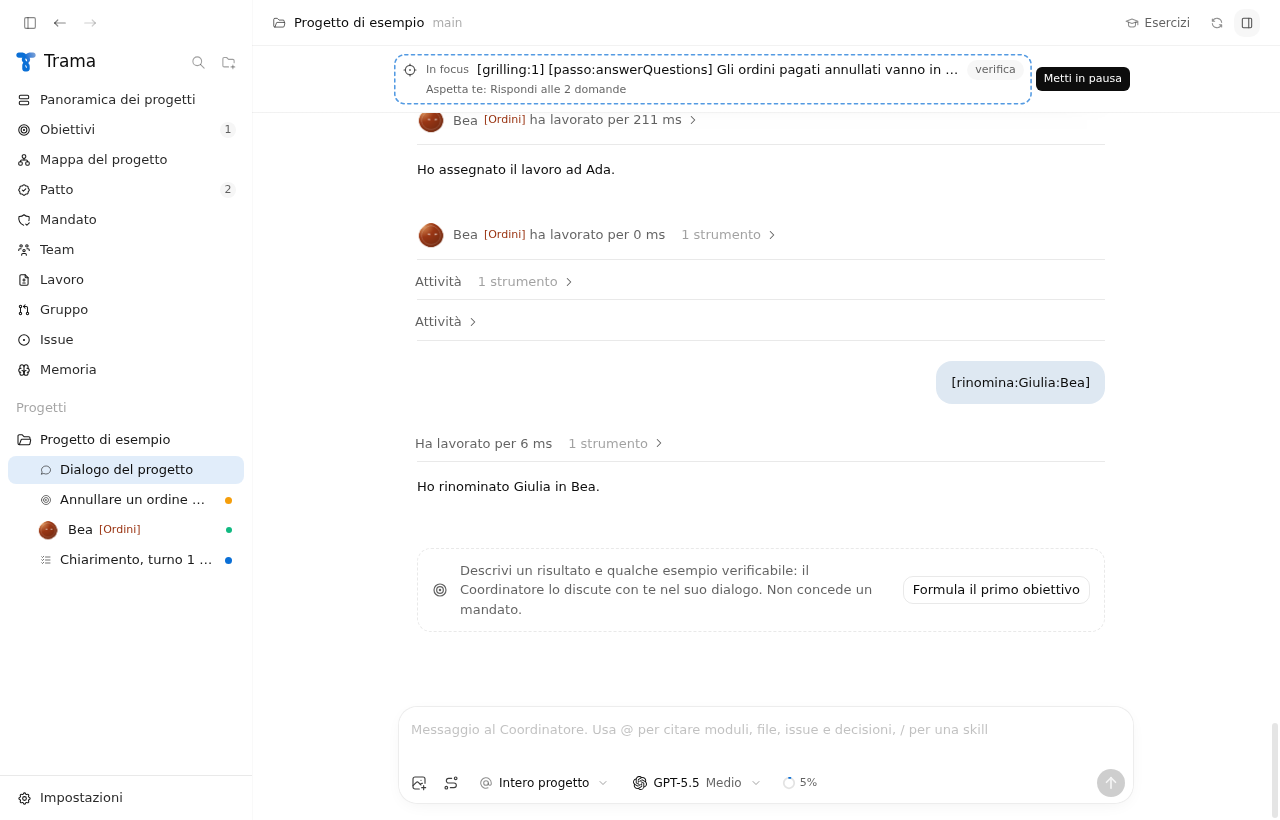
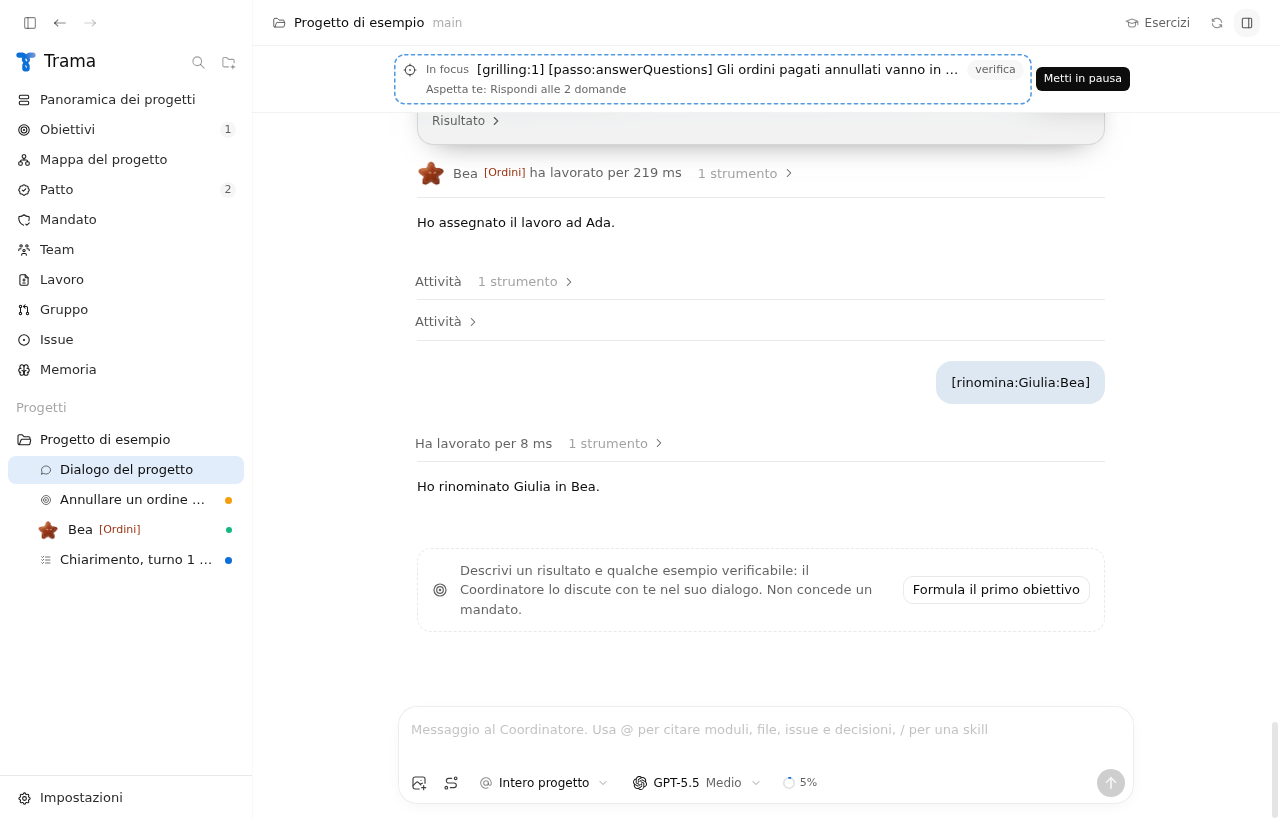
fix(app): keep still agents awake and fit the specialist header
An agent of the team that has not worked for a while now rests with its
eyes open; only an agent out of the team, or a colleague's agent whose
person is idle or away, sleeps. Asleep, the bot keeps its body, color,
weave and seam, closes its eyes, fades and breathes slowly, with three Z's
rising from its top right in stepped CSS. The specialist header puts a
48 px bot beside a wrapping row, so the name stays on one line and the
status is never cut at the inspector's minimum width. ui-check covers the
open eyes after the team, the Z's of a sleeping colleague's agent and the
header at the minimum width.

Claude-Session: https://claude.ai/code/session_01XHqMBGb9DJYWQxVtQJvu8h

diff --git a/app/src/shared/agentBot.ts b/app/src/shared/agentBot.ts
@@ -1,5 +1,5 @@
 import type { Candidate, Specialist, TeamRole } from "./domain";
-import { PRESENCE_IDLE_MS, type PresenceStatus } from "./presence";
+import type { PresenceStatus } from "./presence";
 
 /**
  * The agent's bot (W16, #187): a soft body in the agent's own color (W15), with two stitches for eyes and a thread
@@ -157,18 +157,19 @@ export const ACTIVITY_LABEL: Record<AgentActivity, string> = {
   inactive: "inattivo",
 };
 
-type ActivityAgent = Pick<Specialist, "id" | "status" | "updatedAt"> & {
-  assignments: Pick<Specialist["assignments"][number], "status" | "updatedAt" | "waitingForProvider">[];
+type ActivityAgent = Pick<Specialist, "id" | "status"> & {
+  assignments: Pick<Specialist["assignments"][number], "status" | "waitingForProvider">[];
 };
 type ActivityCandidate = Pick<Candidate, "specialistId" | "clearance" | "humanApproval" | "pullRequest">;
 
 /**
- * The state an agent's bot shows, from the team and assignment model. In order: out of the team or quiet for longer
- * than presence's idle time (G01) sleeps; work being prepared thinks; running work works; a cleared candidate that
- * waits for the person's approval notifies; a failed or stopped work, or one waiting for its provider, is blocked;
- * finished work is done.
+ * The state an agent's bot shows, from the team and assignment model. In order: out of the team sleeps; work being
+ * prepared thinks; running work works; a cleared candidate that waits for the person's approval notifies; a failed
+ * or stopped work, or one waiting for its provider, is blocked; finished work is done; otherwise it rests. An agent
+ * of the team that has not worked for a while still rests with its eyes open: only an agent out of the team, or a
+ * colleague's agent whose person is idle or away (`presenceActivity`), sleeps.
  */
-export function agentActivity(agent: ActivityAgent, context: { candidates: ActivityCandidate[]; now: Date }): AgentActivity {
+export function agentActivity(agent: ActivityAgent, context: { candidates: ActivityCandidate[] }): AgentActivity {
   if (agent.status === "removed") return "inactive";
   const current = agent.assignments.at(-1);
   if (current?.waitingForProvider) return "blocked";
@@ -178,8 +179,6 @@ export function agentActivity(agent: ActivityAgent, context: { candidates: Activ
   const waiting = context.candidates.some((c) => c.specialistId === agent.id && c.clearance && !c.humanApproval && !c.pullRequest);
   if (waiting) return "waiting";
   if (current?.status === "failed" || agent.status === "stopped") return "blocked";
-  const last = Math.max(Date.parse(agent.updatedAt) || 0, Date.parse(current?.updatedAt ?? "") || 0);
-  if (context.now.getTime() - last > PRESENCE_IDLE_MS) return "inactive";
   if (current?.status === "completed") return "done";
   return "idle";
 }

diff --git a/app/src/renderer/components/inspector/TeamView.tsx b/app/src/renderer/components/inspector/TeamView.tsx
@@ -211,16 +211,24 @@ export function SpecialistView({ id }: { id: string }) {
         <button type="button" className="inline-flex items-center gap-1 text-ui-sm text-muted-foreground hover:text-foreground" onClick={() => setInspector({ kind: "team" })}>
           <IconArrowLeft className="size-3.5" /> Team
         </button>
-        <div className="mt-2 flex items-center gap-2">
-          <AgentAvatar agent={specialist} size={64} />
-          <h3 className="text-ui-lg font-medium text-foreground">{specialist.name}</h3>
-          <AgentTag agent={specialist} className="text-ui-sm" />
-          <Badge>{specialist.id}</Badge>
-          <span className="ml-auto flex items-center gap-1.5 text-ui-sm text-muted-foreground">
-            <StatusDot status={specialist.status} /> {STATUS_LABEL[specialist.status]}
-          </span>
+        {/* The bot sits beside the header, so it takes no room from the name and the status; the row wraps before
+            anything is cut, and the status never shrinks. */}
+        <div className="mt-2 flex items-start gap-3" data-testid="specialist-header">
+          <AgentAvatar agent={specialist} size={48} />
+          <div className="min-w-0 flex-1">
+            <div className="flex flex-wrap items-center gap-x-2 gap-y-1">
+              <h3 className="min-w-0 max-w-full truncate text-ui-lg font-medium text-foreground" title={specialist.name}>
+                {specialist.name}
+              </h3>
+              <AgentTag agent={specialist} className="text-ui-sm" />
+              <Badge>{specialist.id}</Badge>
+              <span className="ml-auto flex shrink-0 items-center gap-1.5 whitespace-nowrap text-ui-sm text-muted-foreground" data-testid="specialist-status">
+                <StatusDot status={specialist.status} /> {STATUS_LABEL[specialist.status]}
+              </span>
+            </div>
+            <p className="mt-0.5 text-ui text-muted-foreground">{specialist.competence}</p>
+          </div>
         </div>
-        <p className="mt-0.5 text-ui text-muted-foreground">{specialist.competence}</p>
         <div className="cta-row mt-3">
           {specialist.status !== "removed" && !fixed ? (
             <Button

diff --git a/app/src/renderer/components/AgentIdentity.tsx b/app/src/renderer/components/AgentIdentity.tsx
@@ -1,4 +1,4 @@
-import { type CSSProperties, useMemo, useSyncExternalStore } from "react";
+import { type CSSProperties, useMemo } from "react";
 import { type AgentActivity, agentActivity, botShapeFor, teamBotShapes } from "@shared/agentBot";
 import type { Specialist } from "@shared/domain";
 import { agentTag, paletteEntry } from "@shared/identity";
@@ -20,25 +20,7 @@ export function agentStyle(agent: Pick<Specialist, "color">): CSSProperties {
   return { "--agent-light": entry.light, "--agent-dark": entry.dark } as CSSProperties;
 }
 
-/** A clock that ticks every half minute, shared by all bots, so an agent falls asleep without other changes. */
-let clockNow = Date.now();
-const clockListeners = new Set<() => void>();
-let clockTimer: ReturnType<typeof setInterval> | null = null;
-function subscribeClock(listener: () => void) {
-  clockListeners.add(listener);
-  clockTimer ??= setInterval(() => {
-    clockNow = Date.now();
-    for (const l of clockListeners) l();
-  }, 30_000);
-  return () => {
-    clockListeners.delete(listener);
-    if (!clockListeners.size && clockTimer) {
-      clearInterval(clockTimer);
-      clockTimer = null;
-    }
-  };
-}
-const useClock = () => useSyncExternalStore(subscribeClock, () => clockNow);
+
 
 const NO_SPECIALISTS: Specialist[] = [];
 
@@ -46,13 +28,12 @@ const NO_SPECIALISTS: Specialist[] = [];
 function useAgentBot(agent: Agent, activity: AgentActivity | undefined) {
   const specialists = useUi((s) => s.app?.project?.document.team.specialists ?? NO_SPECIALISTS);
   const candidates = useUi((s) => s.app?.project?.document.candidates);
-  const now = useClock();
   const shapes = useMemo(() => teamBotShapes(specialists), [specialists]);
   const shape = (agent.id && shapes.get(agent.id)) || botShapeFor(agent);
   const member = agent.id ? specialists.find((s) => s.id === agent.id) : undefined;
   const state =
     activity ??
-    (member ? agentActivity(member, { candidates: candidates ?? [], now: new Date(now) }) : "idle");
+    (member ? agentActivity(member, { candidates: candidates ?? [] }) : "idle");
   return { shape, activity: state };
 }
 

diff --git a/app/src/renderer/index.css b/app/src/renderer/index.css
@@ -486,8 +486,50 @@
   animation: bot-breathe 3.6s steps(8) var(--bot-delay, 0s) infinite alternate;
 }
 .agent-bot[data-live][data-move="sleep"] {
-  transform-origin: 50% 55%;
+  transform-origin: 50% 85%;
   animation: bot-sleep 4.5s steps(10) var(--bot-delay, 0s) infinite alternate;
+}
+/* Asleep, the bot keeps its body with closed eyes, faded, and Z's rise from its top right. */
+.agent-bot[data-move="sleep"] [data-part="root"] {
+  opacity: 0.6;
+}
+.agent-bot .bot-zzz {
+  display: none;
+}
+.agent-bot[data-move="sleep"] .bot-zzz {
+  display: inline;
+}
+.agent-bot .bot-z {
+  opacity: 0;
+  transform-box: fill-box;
+  transform-origin: center;
+}
+/* Still (off screen, or with reduced motion), one Z stays. */
+.agent-bot .bot-z-2 {
+  opacity: 1;
+}
+.agent-bot .bot-z-halo,
+.agent-bot .bot-z-mark {
+  fill: none;
+  stroke-linecap: round;
+  stroke-linejoin: round;
+}
+.agent-bot .bot-z-halo {
+  stroke: var(--background);
+  stroke-width: 18;
+}
+.agent-bot .bot-z-mark {
+  stroke: var(--agent);
+  stroke-width: 9;
+}
+.agent-bot[data-live][data-move="sleep"] .bot-z {
+  animation: bot-z 3.6s steps(18) infinite;
+}
+.agent-bot[data-live][data-move="sleep"] .bot-z-2 {
+  animation-delay: 1.2s;
+}
+.agent-bot[data-live][data-move="sleep"] .bot-z-3 {
+  animation-delay: 2.4s;
 }
 .agent-bot[data-live][data-move="exclamation"] {
   animation: bot-hop 0.75s steps(5) infinite alternate;
@@ -520,10 +562,29 @@
 }
 @keyframes bot-sleep {
   from {
-    transform: scale(0.92);
+    transform: scale(0.97, 0.99);
   }
   to {
-    transform: scale(1.08);
+    transform: scale(1.03, 1.01);
+  }
+}
+@keyframes bot-z {
+  0% {
+    opacity: 0;
+    transform: translate(-12px, 14px) rotate(-8deg);
+  }
+  20% {
+    opacity: 1;
+  }
+  45% {
+    transform: translate(-2px, 2px) rotate(8deg);
+  }
+  70% {
+    opacity: 1;
+  }
+  100% {
+    opacity: 0;
+    transform: translate(10px, -14px) rotate(-6deg);
   }
 }
 @keyframes bot-hop {

diff --git a/app/src/shared/agentBot.test.ts b/app/src/shared/agentBot.test.ts
@@ -84,7 +84,7 @@ describe("agent bot shapes (W16)", () => {
 });
 
 describe("agent bot state (W16)", () => {
-  const at = (a: ReturnType<typeof agent>, candidates: ReturnType<typeof candidate>[] = []) => agentActivity(a, { candidates, now: NOW });
+  const at = (a: ReturnType<typeof agent>, candidates: ReturnType<typeof candidate>[] = []) => agentActivity(a, { candidates });
 
   it("follows the agent's work", () => {
     expect(at(agent(null))).toBe("idle");
@@ -100,11 +100,14 @@ describe("agent bot state (W16)", () => {
     expect(at(agent({ status: "completed" }))).toBe("done");
   });
 
-  it("sleeps out of the team or after presence's idle time, unless it works or waits for the person", () => {
-    expect(at(agent(null, "removed"))).toBe("inactive");
-    expect(at(agent({ status: "completed" }, "available", old))).toBe("inactive");
+  it("keeps an agent of the team awake however long it has been still; only one out of the team sleeps", () => {
+    // Created with the team and never assigned, quiet for longer than presence's idle time: still at rest, eyes open.
+    expect(at(agent(null, "available", old))).toBe("idle");
+    expect(ACTIVITY_LOOK[at(agent(null, "available", old))].expression).toBe("neutral");
+    expect(at(agent({ status: "completed" }, "available", old))).toBe("done");
     expect(at(agent({ status: "running" }, "working", old))).toBe("working");
     expect(at(agent({ status: "completed" }, "available", old), [candidate()])).toBe("waiting");
+    expect(at(agent(null, "removed"))).toBe("inactive");
   });
 
   it("maps each state to its move and expression", () => {

diff --git a/app/src/renderer/components/AgentBot.tsx b/app/src/renderer/components/AgentBot.tsx
@@ -6,6 +6,17 @@ import { type BotNodes, registerBot } from "@/lib/botEngine";
 import { cn } from "@/lib/cn";
 import { agentStyle } from "./AgentIdentity";
 
+/** Where the sleeping Z's start, in viewBox units, and how big each is. */
+const SLEEP_Z = [
+  { x: 80, y: -72, size: 30 },
+  { x: 112, y: -112, size: 44 },
+  { x: 150, y: -156, size: 60 },
+];
+const zPath = (size: number) => {
+  const h = size / 2;
+  return `M${-h} ${-h}H${h}L${-h} ${h}H${h}`;
+};
+
 /**
  * An agent's bot (W16, ADR 0007): a soft body of woven fabric in the agent's color, with a stitched seam and two
  * stitches for eyes. The body is the agent's own (a shape per role); the move and the eyes follow its state.
@@ -123,6 +134,19 @@ export function AgentBot({
         </g>
         <circle data-part="badge" className="bot-badge" r={BADGE_RADIUS} transform={badgeTransform(still.badge)} />
       </g>
+      {/* Asleep, three Z's of growing size rise from the top right, sway and fade; CSS shows and moves them. */}
+      {detailed ? (
+        <g className="bot-zzz" data-part="zzz">
+          {SLEEP_Z.map((z, i) => (
+            <g key={i} transform={`translate(${z.x} ${z.y})`}>
+              <g className={`bot-z bot-z-${i + 1}`}>
+                <path className="bot-z-halo" d={zPath(z.size)} />
+                <path className="bot-z-mark" d={zPath(z.size)} />
+              </g>
+            </g>
+          ))}
+        </g>
+      ) : null}
     </svg>
   );
 }

diff --git a/app/src/renderer/lib/botGeometry.test.ts b/app/src/renderer/lib/botGeometry.test.ts
@@ -59,7 +59,7 @@ describe("bot geometry (W16)", () => {
     expect(renderPose(halfway).blobs[0]).toMatch(/^M.*Z$/);
   });
 
-  it("turns the body into knots, marks and a spool, and hides the eyes there", () => {
+  it("turns the body into knots and marks, and hides the eyes there; asleep it keeps its body with closed eyes", () => {
     const body = botPose(input());
     expect(body.body).toBe(1);
     expect(body.blobs[1]).toEqual(body.blobs[0]);
@@ -68,9 +68,11 @@ describe("bot geometry (W16)", () => {
     expect([centre(1), centre(0), centre(2)]).toEqual([expect.closeTo(-0.6, 1), expect.closeTo(0, 1), expect.closeTo(0.6, 1)]);
     expect(thinking.dim).toBe(1);
     expect(thinking.body).toBe(0);
-    for (const animation of ["alert", "exclamation", "sleep"] as const) expect(botPose(input({ animation })).body).toBe(0);
-    const spool = botPose(input({ animation: "sleep" }));
-    expect(Math.max(...spool.blobs[0].map((p) => p.x))).toBeLessThan(0.3);
+    for (const animation of ["alert", "exclamation"] as const) expect(botPose(input({ animation })).body).toBe(0);
+    const asleep = botPose(input({ animation: "sleep", expression: "sleepy" }));
+    expect(asleep.body).toBe(1);
+    expect(asleep.blobs[0]).toEqual(body.blobs[0]);
+    expect(asleep.eyes[0].h).toBeLessThan(asleep.eyes[0].w / 3);
     expect(botPose(input({ animation: "notification" })).badge).toBe(1);
     expect(body.badge).toBe(0);
   });

diff --git a/app/src/renderer/lib/botGeometry.ts b/app/src/renderer/lib/botGeometry.ts
@@ -303,16 +303,10 @@ export function botPose(input: PoseInput): BotPose {
         offset: { x: 0, y: hop, rotate: 0 },
       };
     }
-    case "sleep": {
-      // A small spool, breathing slowly.
-      const r = 0.24 * (input.moving ? 1 + 0.12 * Math.sin((t * TAU) / 4 + input.seed) : 1);
-      const spool = formOutline(count, { cx: 0, cy: 0.1, a: r * 1.1, b: r * 0.85, n: 3.2 });
-      return {
-        ...base,
-        blobs: [spool, spool, spool],
-        body: 0,
-      };
-    }
+    case "sleep":
+      // Asleep, the bot keeps its body, color, weave and seam, and closes its eyes: it stays recognisable. The Z's
+      // above it, the slow breath and the faded body come from CSS (`.agent-bot[data-move="sleep"]`).
+      return { ...base, eyes: eyePair(input, "sleepy", false) };
   }
 }
 

diff --git a/docs/adr/0007-finestra-centrata-su-decisioni-team-e-verifiche.md b/docs/adr/0007-finestra-centrata-su-decisioni-team-e-verifiche.md
@@ -14,11 +14,11 @@ Aggiornamento del 26 settembre 2026 (W16, #187): l'identità dell'agente passa d
 
 - Il corpo è una forma morbida con una sfumatura radiale del colore dell'agente, dalla tinta chiara della palette a quella scura, uguale in chiaro e in scuro. Sul corpo c'è una trama di tessuto a cesto, fatta di fili chiari e scuri nelle due tinte dell'agente: piena da 48 px, attenuata a 24 px, assente sotto. Una cucitura tratteggiata corre lungo il bordo. Gli occhi sono due punti di cucito bianchi, inclinati. Non c'è bocca: l'espressione sta negli occhi (neutra, attenta, sorpresa, eccitata, felice, ridente, arrabbiata, triste, spaventata, assonnata).
 - Ogni ruolo fisso ha una forma sua (squircle, nuvola, goccia, capsula, triangolo, sasso, esagono, arco, scudo, rombo, fiore). Gli sviluppatori hanno sei forme riservate (cerchio, uovo, fagiolo, stella, pentagono, schermo), scelte in modo stabile dall'id. Nello stesso progetto due agenti attivi non hanno mai forma e colore uguali: uno sviluppatore arrivato dopo prende la forma libera successiva e chi c'era prima non cambia.
-- Il movimento segue lo stato: a riposo respira, sbatte le palpebre, ogni tanto fa l'occhiolino e segue il cursore con gli occhi; lavora con occhi attenti; pensa diventando tre nodi in fila, quello centrale più grande e più scuro; aspetta la persona con occhi tondi e un nodo scuro in alto a destra, preceduto da un punto esclamativo inclinato che trema quando lo stato cambia; bloccato o in errore diventa un punto esclamativo dritto che saltella; appena finito sgrana gli occhi e poi torna a riposo con occhi felici; inattivo (fuori dal team, o fermo oltre il tempo di inattività della presenza G01) si riduce a un piccolo rocchetto che respira piano. Tra una forma e l'altra il contorno si trasforma punto per punto, senza tagli.
-- La misura va da 20 a 96 px, perché forma, colore e occhi devono leggersi a colpo d'occhio: 32 px nelle righe del Team e in chat, 64 px nella scheda dello specialista, 24 px nella barra laterale, nella timeline, nel Patto e nel Gruppo. Sotto i 24 px il bot perde trama e cucitura e ingrandisce gli occhi.
-- Il costo resta basso. I movimenti continui (respiro, salto del punto esclamativo, tremito dell'allerta, nodi del pensiero) sono animazioni CSS a scatti di 0,45 s, uguali per tutti i bot, e girano solo sui bot visibili: nelle liste lunghe gli altri restano fermi. Il contorno si ricalcola solo quando lo stato cambia; gli occhi si muovono solo mentre si muove il cursore, e battiti di ciglia e occhiolini sono due scritture ogni tanto. Il ciclo di disegno gira al massimo 24 volte al secondo e solo in quei momenti. Tutto si ferma quando la finestra è nascosta o non ha il focus. Con `prefers-reduced-motion` resta solo l'espressione dello stato. ui-check misura il ciclo (frame al secondo con il cursore in movimento, nessun frame a riposo) e la CPU di renderer e GPU con 19 bot visibili: nel container Linux il costo aggiuntivo a riposo è sotto il 3%. La prima versione, provata su macOS con 21 bot, usava circa il 57% di CPU tra renderer e GPU; la nuova non è ancora stata misurata su macOS.
+- Il movimento segue lo stato: a riposo respira, sbatte le palpebre, ogni tanto fa l'occhiolino e segue il cursore con gli occhi; lavora con occhi attenti; pensa diventando tre nodi in fila, quello centrale più grande e più scuro; aspetta la persona con occhi tondi e un nodo scuro in alto a destra, preceduto da un punto esclamativo inclinato che trema quando lo stato cambia; bloccato o in errore diventa un punto esclamativo dritto che saltella; appena finito sgrana gli occhi e poi torna a riposo con occhi felici; dorme solo se è fuori dal team o se è l'agente di un collega inattivo o assente (vista Gruppo, G01): tiene forma, colore, trama e cucitura, chiude gli occhi, il corpo si attenua, respira piano e dall'alto a destra salgono tre Z di grandezza crescente che ondeggiano e svaniscono. Un agente del team fermo da tempo resta a riposo con gli occhi aperti. Tra una forma e l'altra il contorno si trasforma punto per punto, senza tagli.
+- La misura va da 20 a 96 px, perché forma, colore e occhi devono leggersi a colpo d'occhio: 32 px nelle righe del Team e in chat, 48 px accanto all'intestazione della scheda dello specialista (che resta disposta come prima e non si taglia alla larghezza minima dell'ispettore), 24 px nella barra laterale, nella timeline, nel Patto e nel Gruppo. Sotto i 24 px il bot perde trama e cucitura e ingrandisce gli occhi.
+- Il costo resta basso. I movimenti continui (respiro, salto del punto esclamativo, tremito dell'allerta, nodi del pensiero, Z del sonno) sono animazioni CSS a scatti di 0,45 s, uguali per tutti i bot, e girano solo sui bot visibili: nelle liste lunghe gli altri restano fermi. Il contorno si ricalcola solo quando lo stato cambia; gli occhi si muovono solo mentre si muove il cursore, e battiti di ciglia e occhiolini sono due scritture ogni tanto. Il ciclo di disegno gira al massimo 24 volte al secondo e solo in quei momenti. Tutto si ferma quando la finestra è nascosta o non ha il focus. Con `prefers-reduced-motion` resta solo l'espressione dello stato. ui-check misura il ciclo (frame al secondo con il cursore in movimento, nessun frame a riposo) e la CPU di renderer e GPU con 19 bot visibili: nel container Linux il costo aggiuntivo a riposo è sotto il 3%. La prima versione, provata su macOS con 21 bot, usava circa il 57% di CPU tra renderer e GPU; la nuova non è ancora stata misurata su macOS.
 - Le persone restano con il loro avatar GitHub: il bot identifica solo gli agenti.
 
-Sono state provate tre direzioni: A, cucitura e filo che esce dal corpo; B, tessuto a trama incrociata sul corpo; C, gomitolo con fili che avvolgono il corpo. La persona ha scelto A con due modifiche: niente filo che esce dal corpo e una trama di tessuto sul corpo, che da B prende l'idea ma la tiene discreta e la toglie ai piccoli formati. I tre nodi del pensiero e il rocchetto del sonno restano senza filo. `app/src/shared/agentBot.test.ts` verifica forme ed espressioni per stato, `app/src/renderer/lib/botGeometry.test.ts` il disegno e la leggibilità degli occhi su ogni colore, anche accanto a un filo chiaro della trama.
+Sono state provate tre direzioni: A, cucitura e filo che esce dal corpo; B, tessuto a trama incrociata sul corpo; C, gomitolo con fili che avvolgono il corpo. La persona ha scelto A con due modifiche: niente filo che esce dal corpo e una trama di tessuto sul corpo, che da B prende l'idea ma la tiene discreta e la toglie ai piccoli formati. I tre nodi del pensiero restano senza filo. Il sonno, che all'inizio riduceva il bot a un rocchetto, ora tiene la forma dell'agente con gli occhi chiusi e le Z: dopo la generazione del team gli agenti fermi sembravano tutti uguali e senza occhi. `app/src/shared/agentBot.test.ts` verifica forme ed espressioni per stato, `app/src/renderer/lib/botGeometry.test.ts` il disegno e la leggibilità degli occhi su ogni colore, anche accanto a un filo chiaro della trama.
 
 Conseguenze: la app Codex resta il livello di qualità visiva (grigi neutri, font di sistema, quiete), non la pianta. Le viste esistenti si riusano dentro l'ispettore. L'ADR 0005 resta valido: il Coordinatore è l'unico interlocutore e le altre superfici sono di lettura e verifica.
